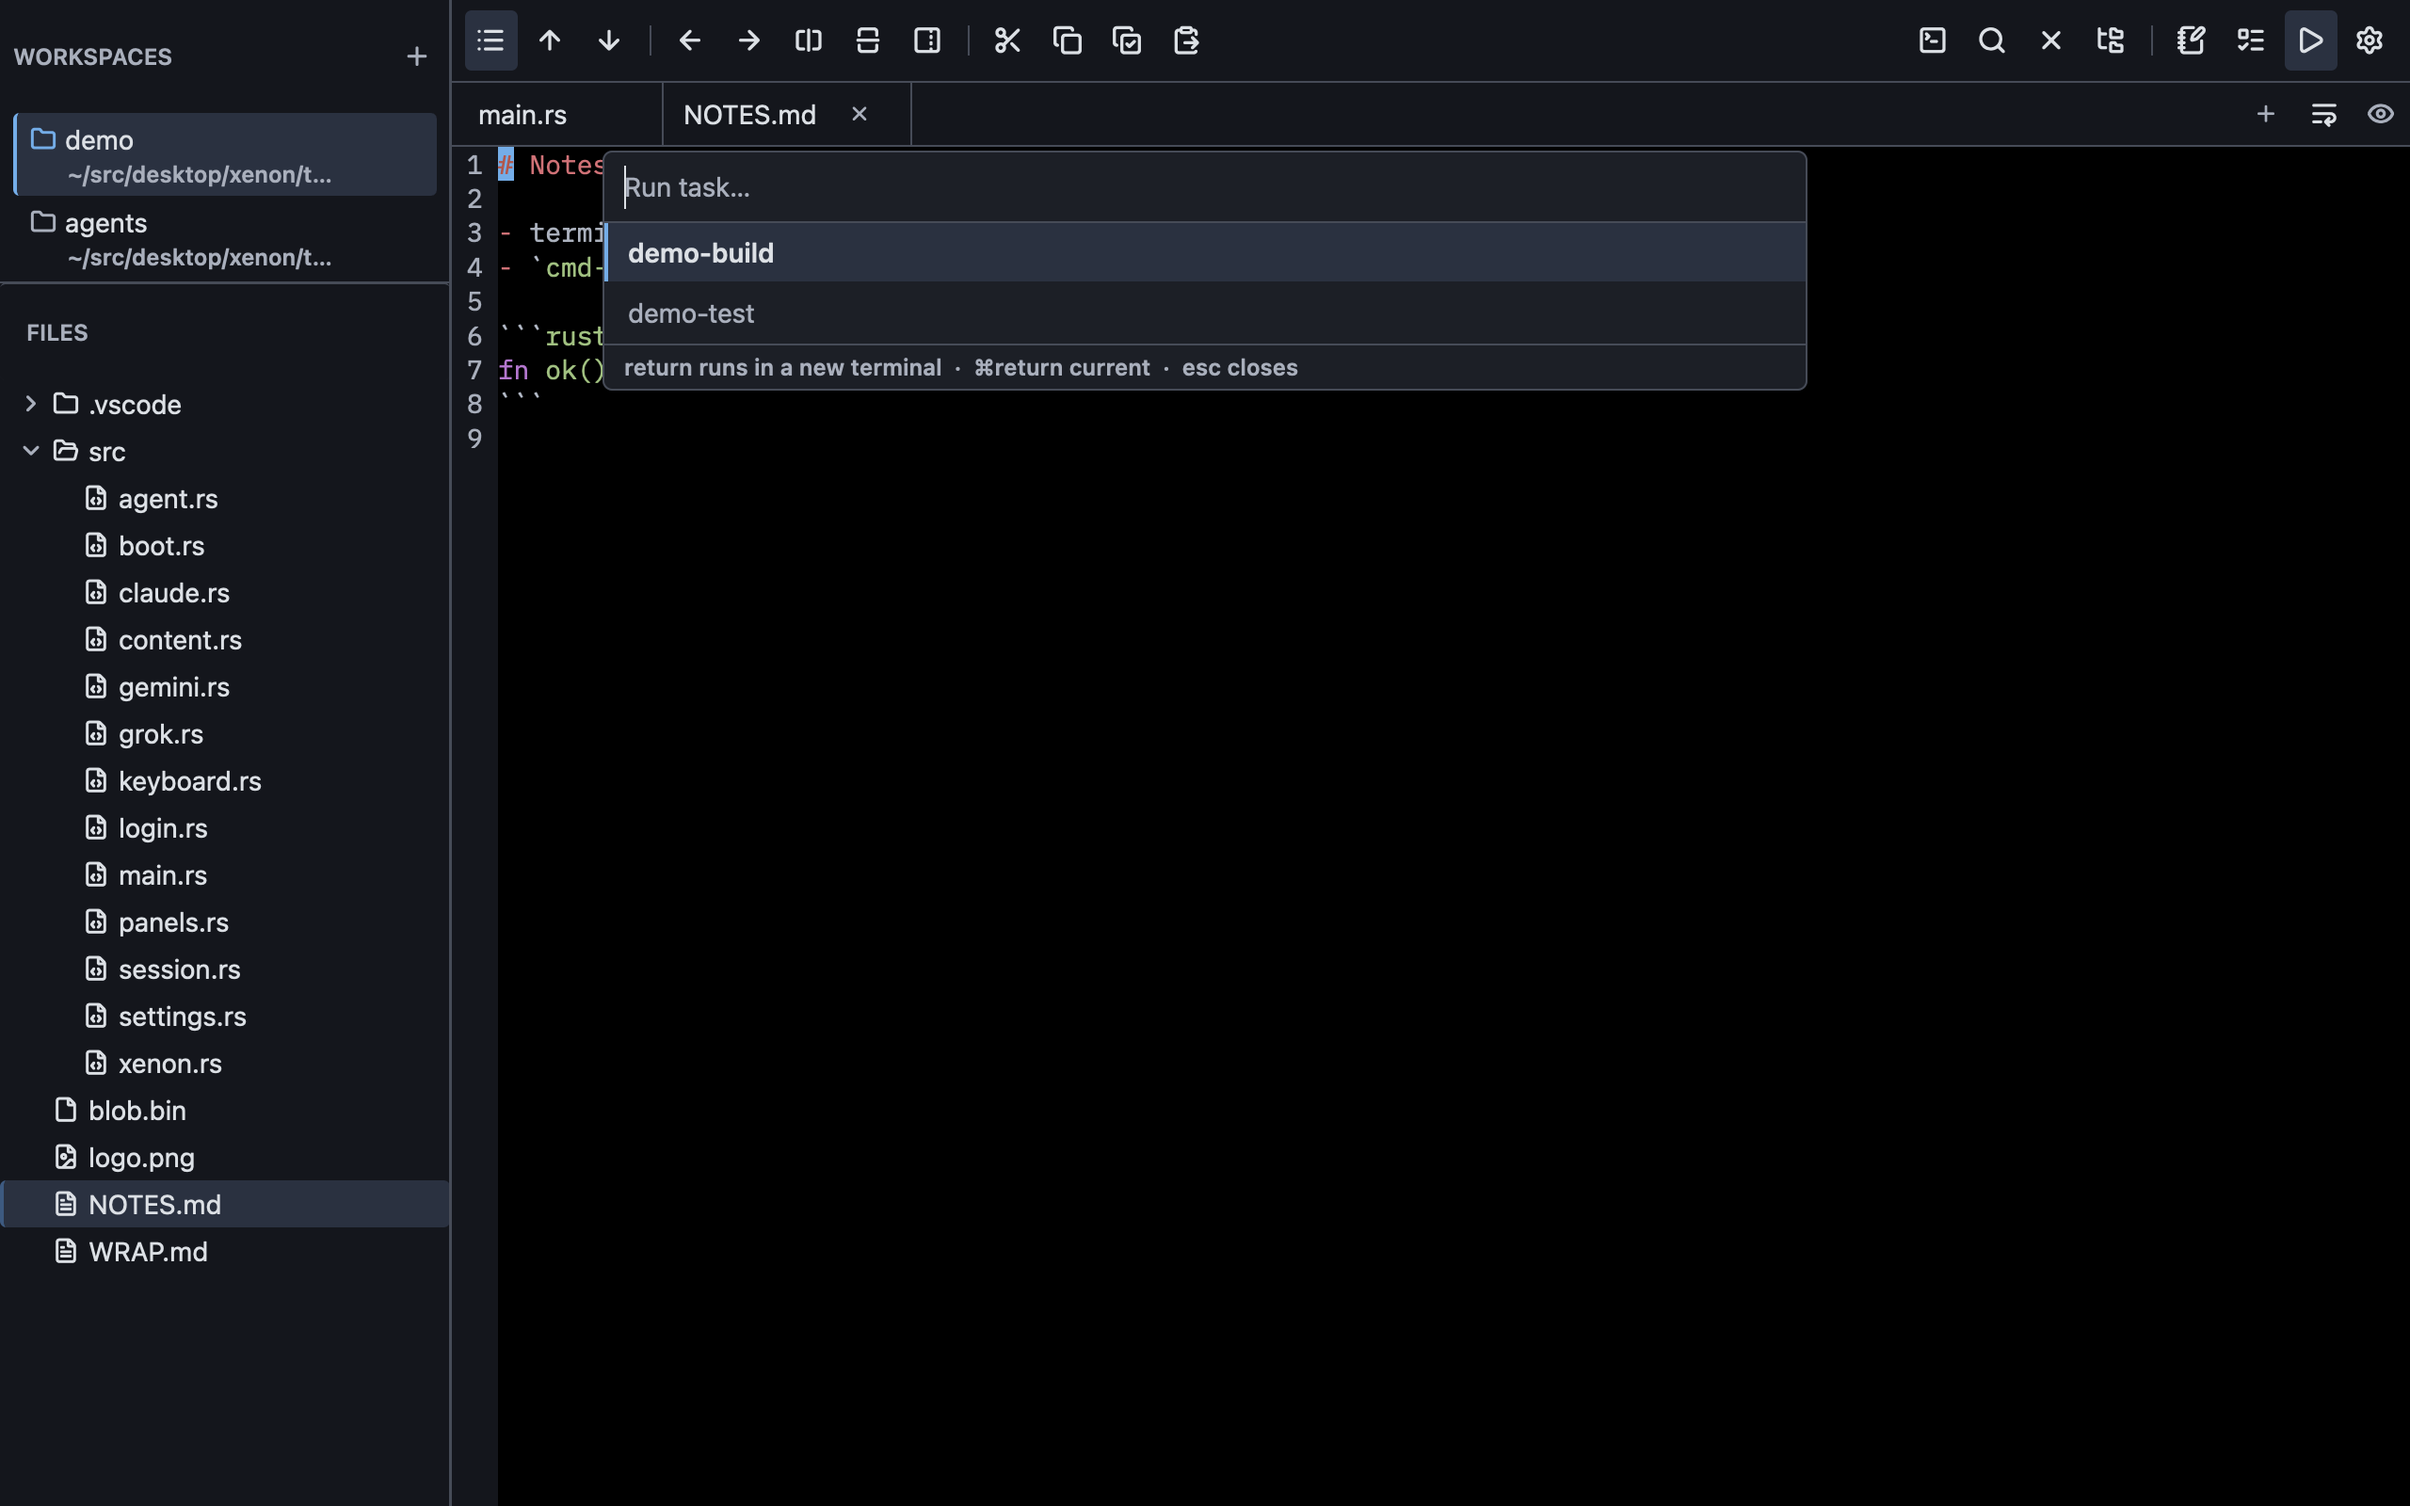
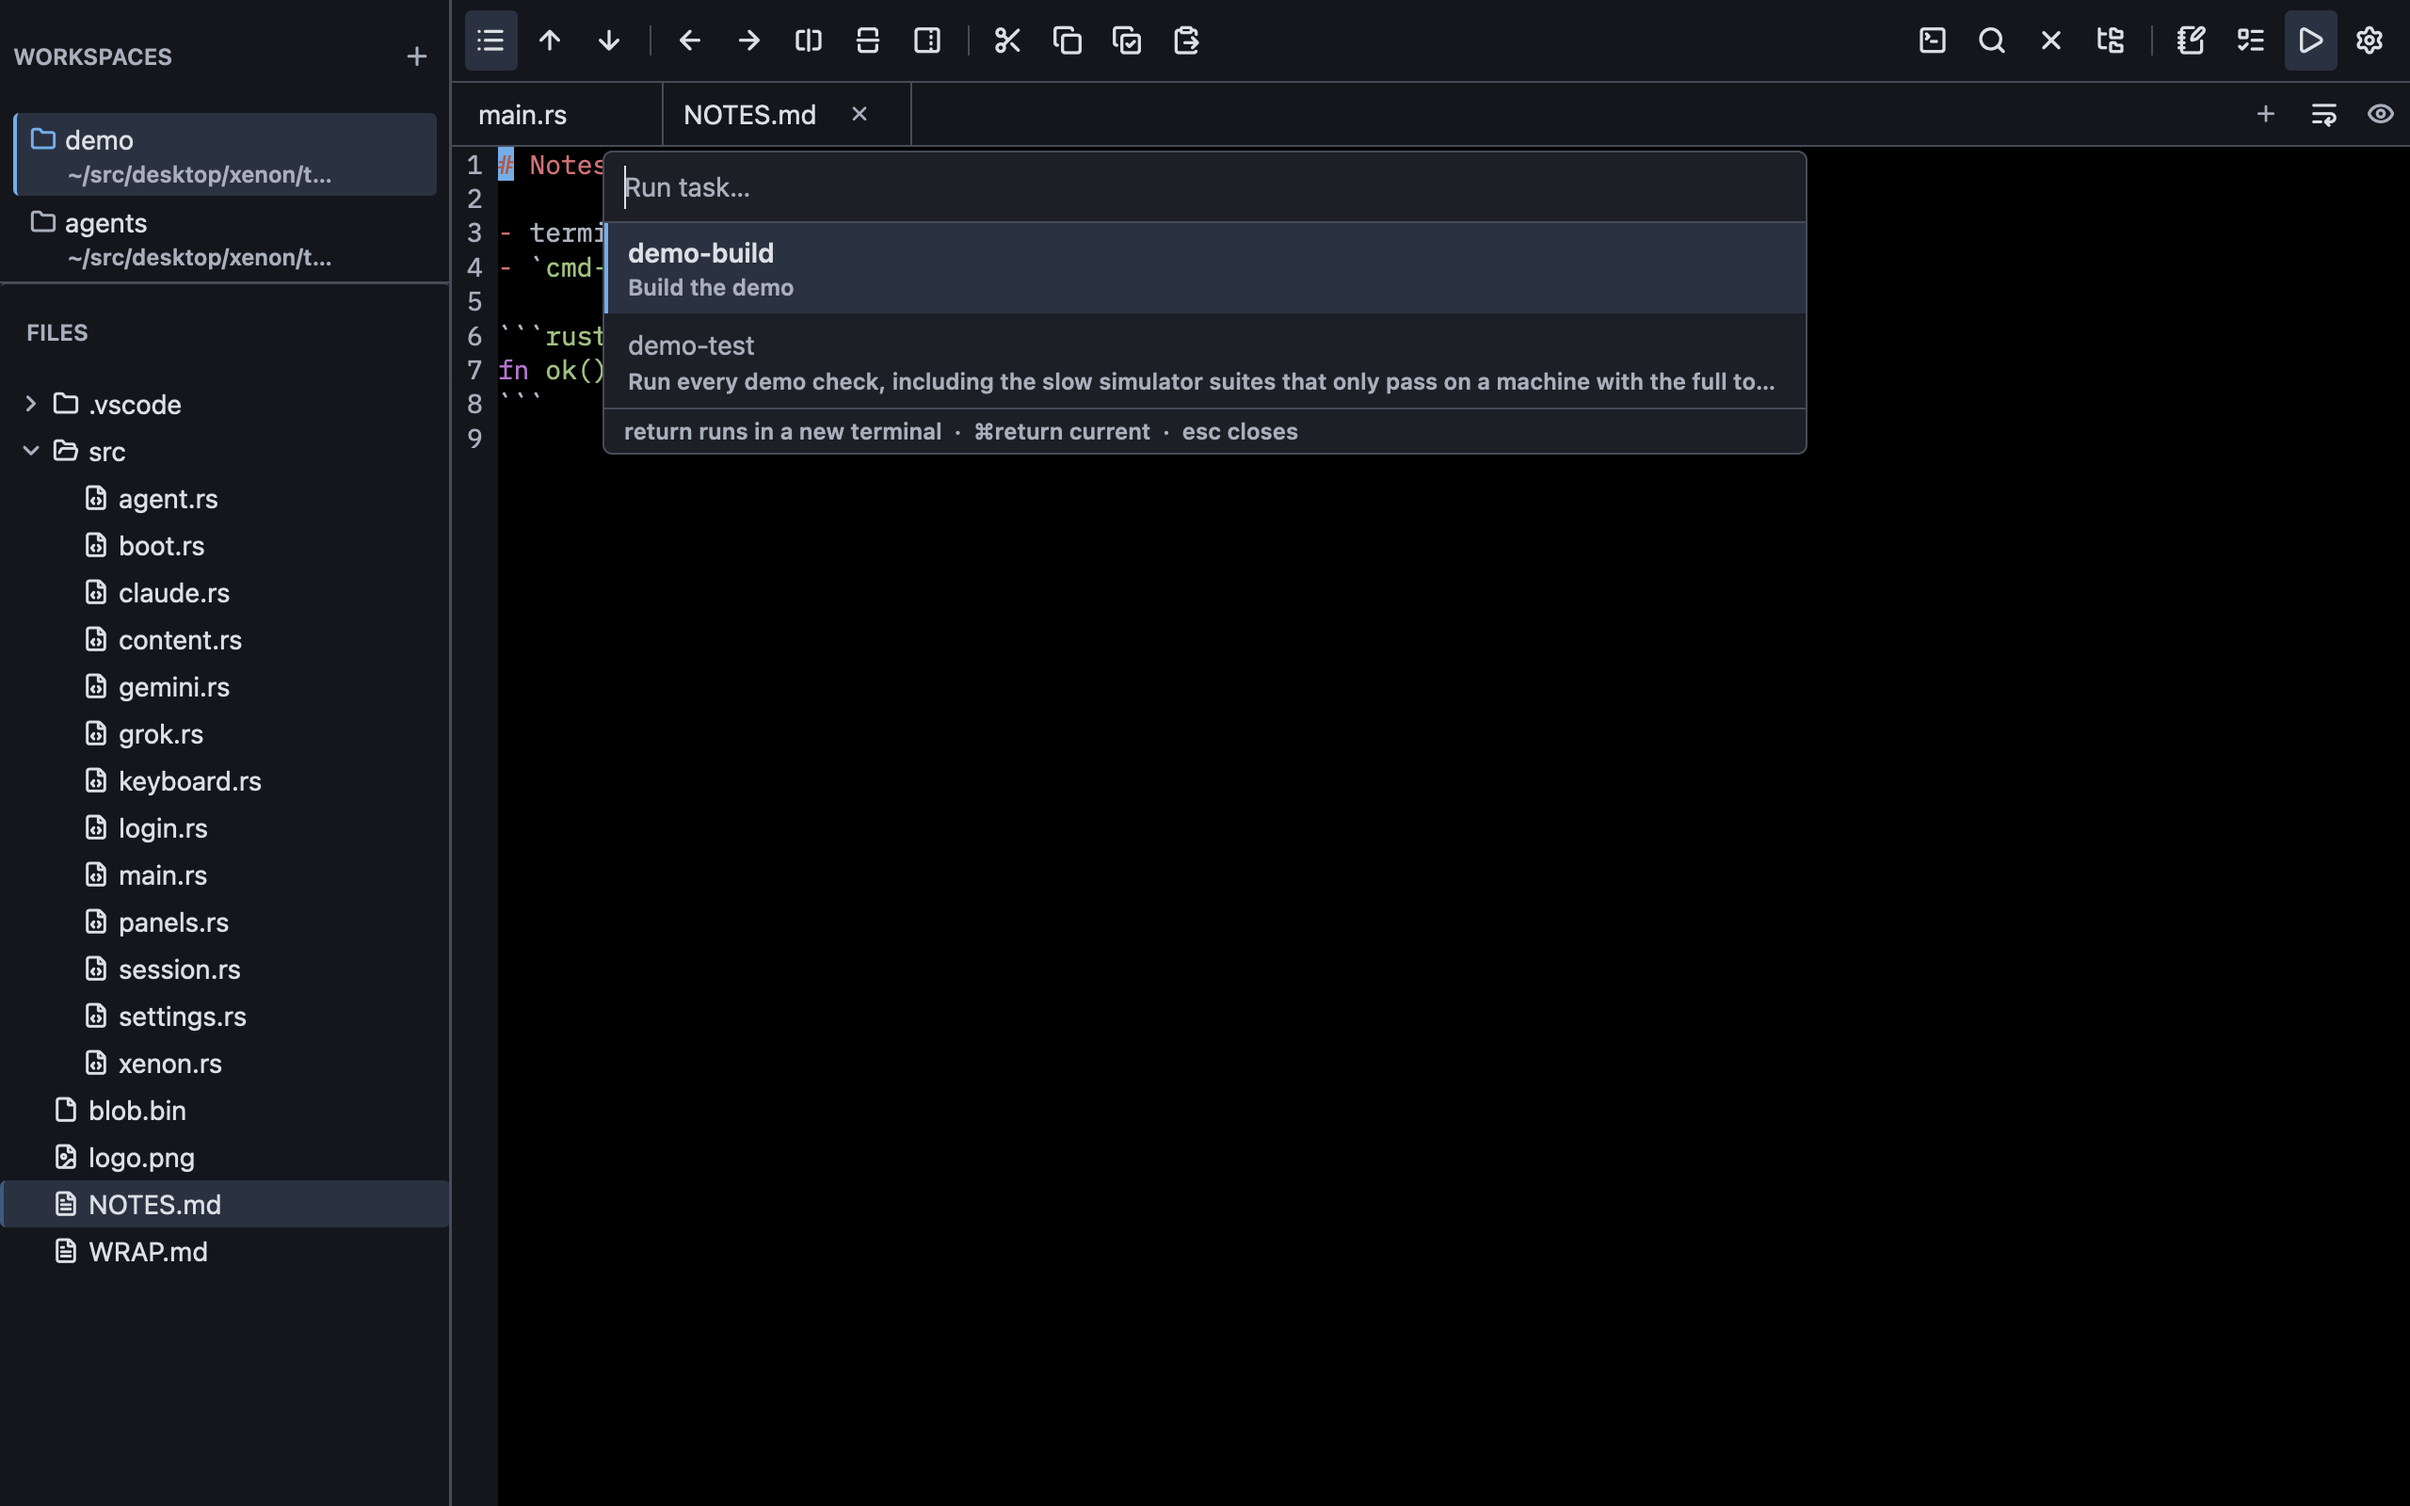
Run Task: show a task's description as a second line, not a chip.
Long tasks.json details were squeezing the label into one letter per
line. Palette titles and subtitles now truncate instead of wrapping, and
the task picker scene covers a long description.

Changed region(s): [[0.25, 0.1875, 0.75, 0.3125]]

diff --git a/crates/xenon_design_system/src/query_row.rs b/crates/xenon_design_system/src/query_row.rs
@@ -48,7 +48,7 @@ pub fn query_row(id: impl Into<ElementId>, row: QueryRow, cx: &App) -> Stateful<
     if !row.enabled {
         el = el.opacity(0.45);
     }
-    let mut title = div().min_w_0();
+    let mut title = div().min_w_0().truncate();
     if row.selected && row.enabled {
         title = title.type_role(TypeRole::ListPrimary, cx);
     } else {
@@ -78,7 +78,13 @@ pub fn query_row(id: impl Into<ElementId>, row: QueryRow, cx: &App) -> Stateful<
     }
     el = el.child(top);
     if let Some(subtitle) = row.subtitle.filter(|subtitle| !subtitle.is_empty()) {
-        el = el.child(div().type_role(TypeRole::ControlLabel, cx).child(subtitle));
+        el = el.child(
+            div()
+                .min_w_0()
+                .truncate()
+                .type_role(TypeRole::ControlLabel, cx)
+                .child(subtitle),
+        );
     }
     el
 }

diff --git a/crates/xenon/src/visual_test_runner/fixtures.rs b/crates/xenon/src/visual_test_runner/fixtures.rs
@@ -63,8 +63,8 @@ pub fn build() -> Result<Fixture> {
         r#"{
   "version": "2.0.0",
   "tasks": [
-    { "label": "demo-build", "type": "shell", "command": "echo build" },
-    { "label": "demo-test", "type": "shell", "command": "echo test" }
+    { "label": "demo-build", "type": "shell", "command": "echo build", "detail": "Build the demo" },
+    { "label": "demo-test", "type": "shell", "command": "echo test", "detail": "Run every demo check, including the slow simulator suites that only pass on a machine with the full toolchain installed" }
   ]
 }"#,
     )?;

diff --git a/crates/xenon_ui/src/task_picker.rs b/crates/xenon_ui/src/task_picker.rs
@@ -164,8 +164,8 @@ impl Render for TaskPickerView {
                     ("task-row", i),
                     QueryRow {
                         title: task.label.clone(),
-                        detail: task.detail.clone(),
-                        subtitle: None,
+                        detail: None,
+                        subtitle: task.detail.clone(),
                         selected: i == self.selected,
                         enabled: true,
                         hits,
